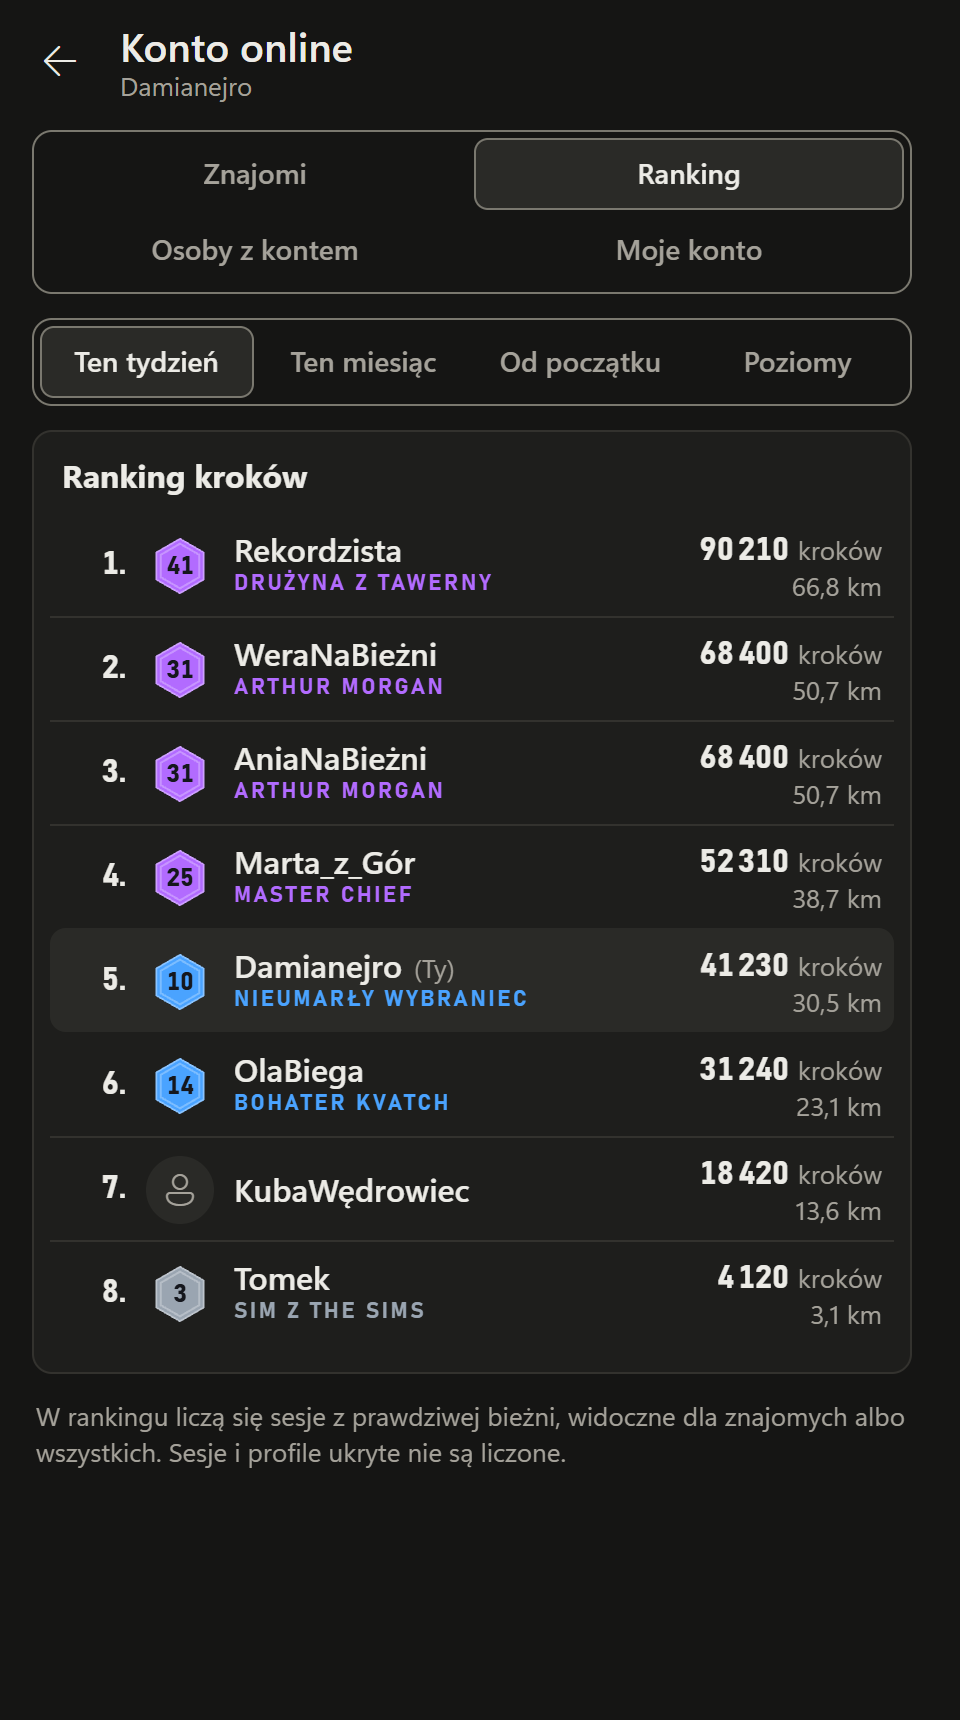
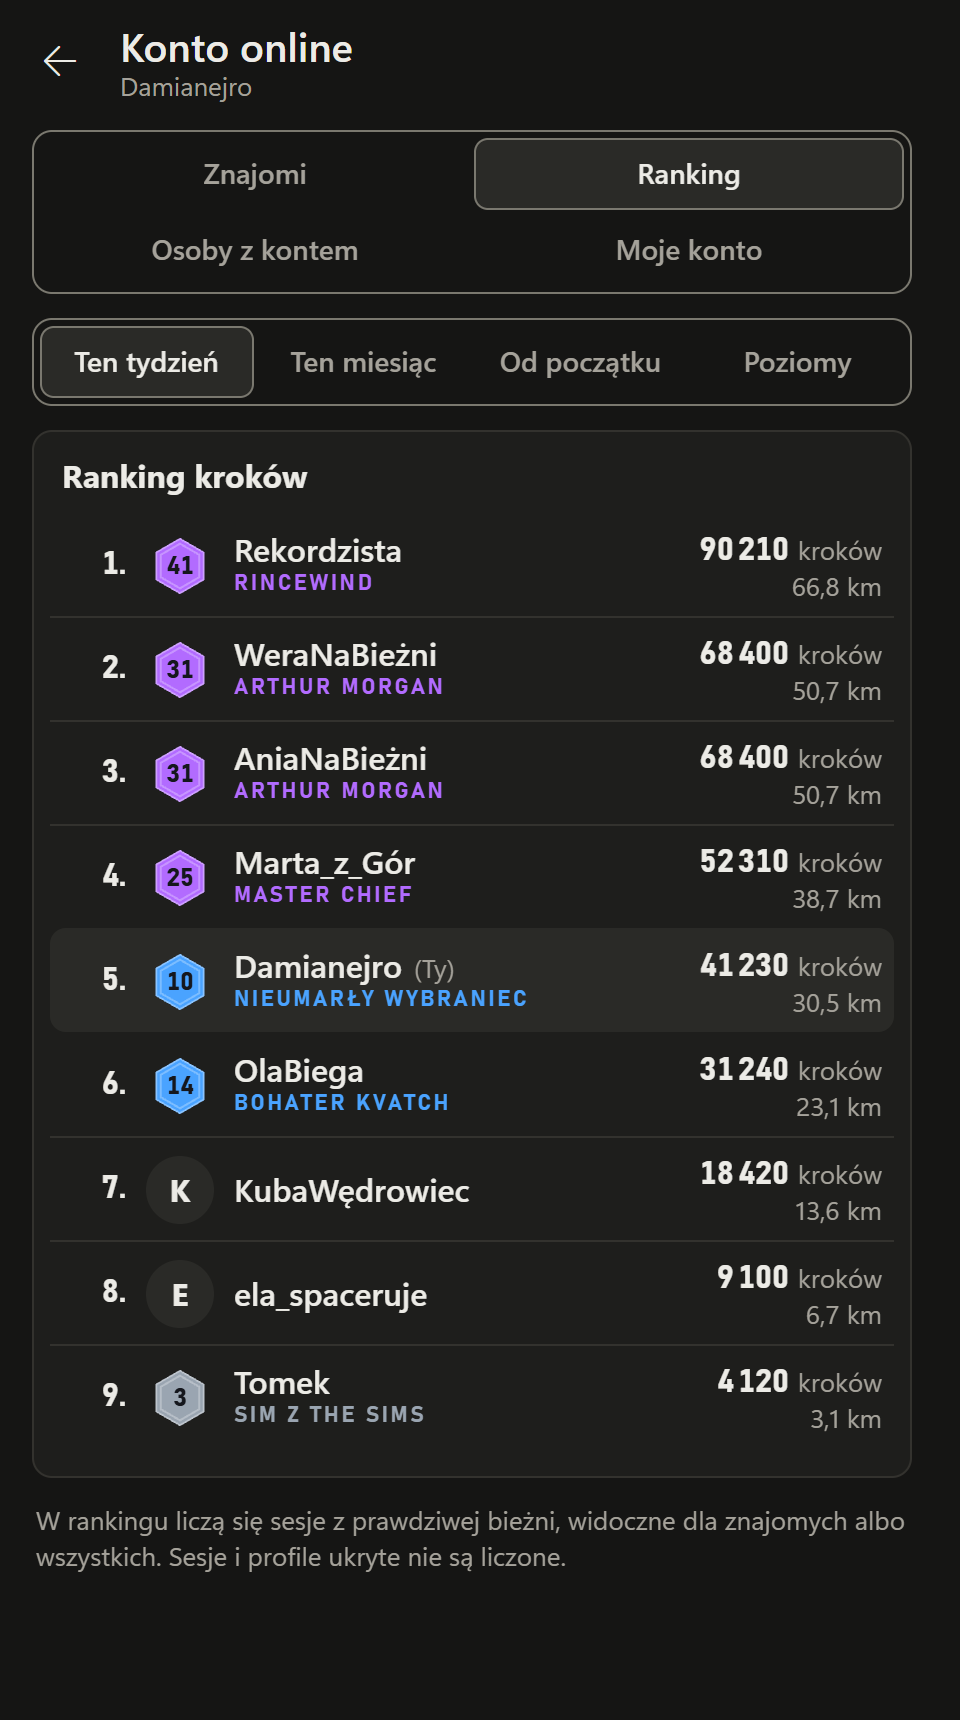
Levels: approved rank names and descriptions
37 of the 39 ranks get the approved Polish and English texts: new
characters at levels 15, 40, 44, 48 and 97, Dragonborn moves to level 17,
and several descriptions are rewritten. Ranks at levels 2 and 3 stay as
they are for now. Rank thresholds, achievements and the account server
file do not change.

The v2 fixtures follow the new names, the v1 vs v2 test now compares only
rank thresholds, and the ranking screenshot in the README is refreshed.

Poziomy: zatwierdzone nazwy i opisy rang

37 z 39 rang dostaje zatwierdzone teksty po polsku i po angielsku: nowe
postaci na poziomach 15, 40, 44, 48 i 97, Smocze Dziecię przechodzi na
poziom 17, kilka opisów napisanych od nowa. Rangi z poziomów 2 i 3 na
razie zostają bez zmian. Progi rang, osiągnięcia i plik dla serwera kont
się nie zmieniają.

Fixtury v2 mają nowe nazwy, test v1 kontra v2 porównuje już tylko progi
rang, a zrzut rankingu w README jest odświeżony.

diff --git a/crates/core/tests/levels_fixtures.rs b/crates/core/tests/levels_fixtures.rs
@@ -364,9 +364,8 @@ fn v2_changes_only_the_trail() {
         (old.xp_per_km, &old.rarity_xp, &old.rarities),
         (new.xp_per_km, &new.rarity_xp, &new.rarities)
     );
-    let ranks = |d: &Definitions| -> Vec<(u32, String)> {
-        d.ranks.iter().map(|r| (r.level, r.name.clone())).collect()
-    };
+    // 0.6.5: nowe nazwy rang, progi rang zostają
+    let ranks = |d: &Definitions| -> Vec<u32> { d.ranks.iter().map(|r| r.level).collect() };
     assert_eq!((&old.levels, ranks(&old)), (&new.levels, ranks(new)));
 }
 
